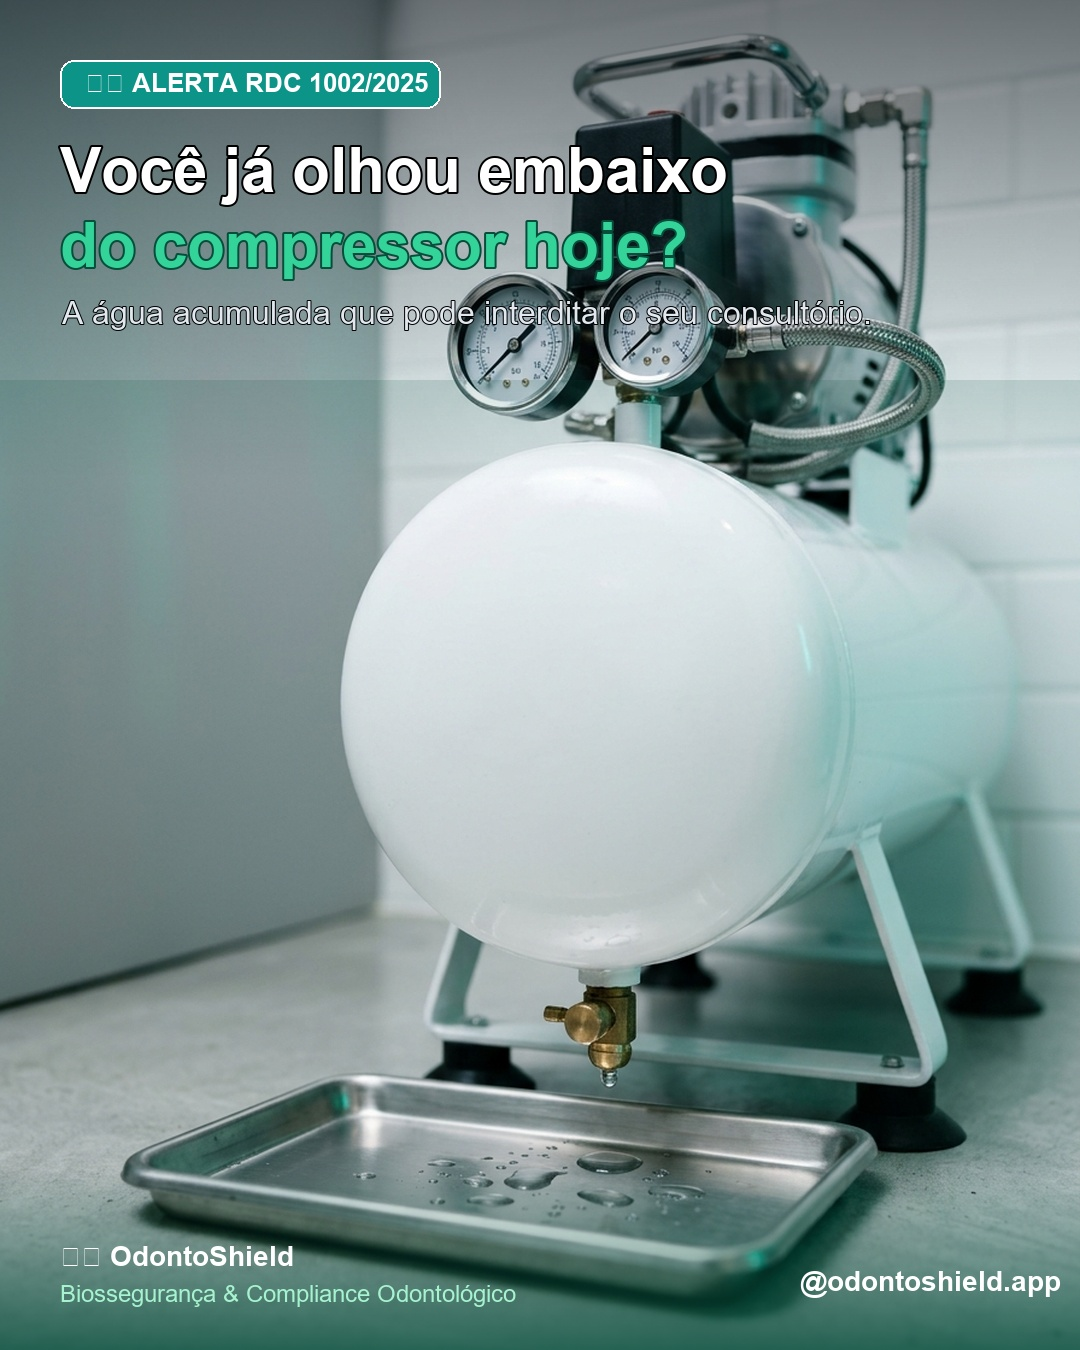
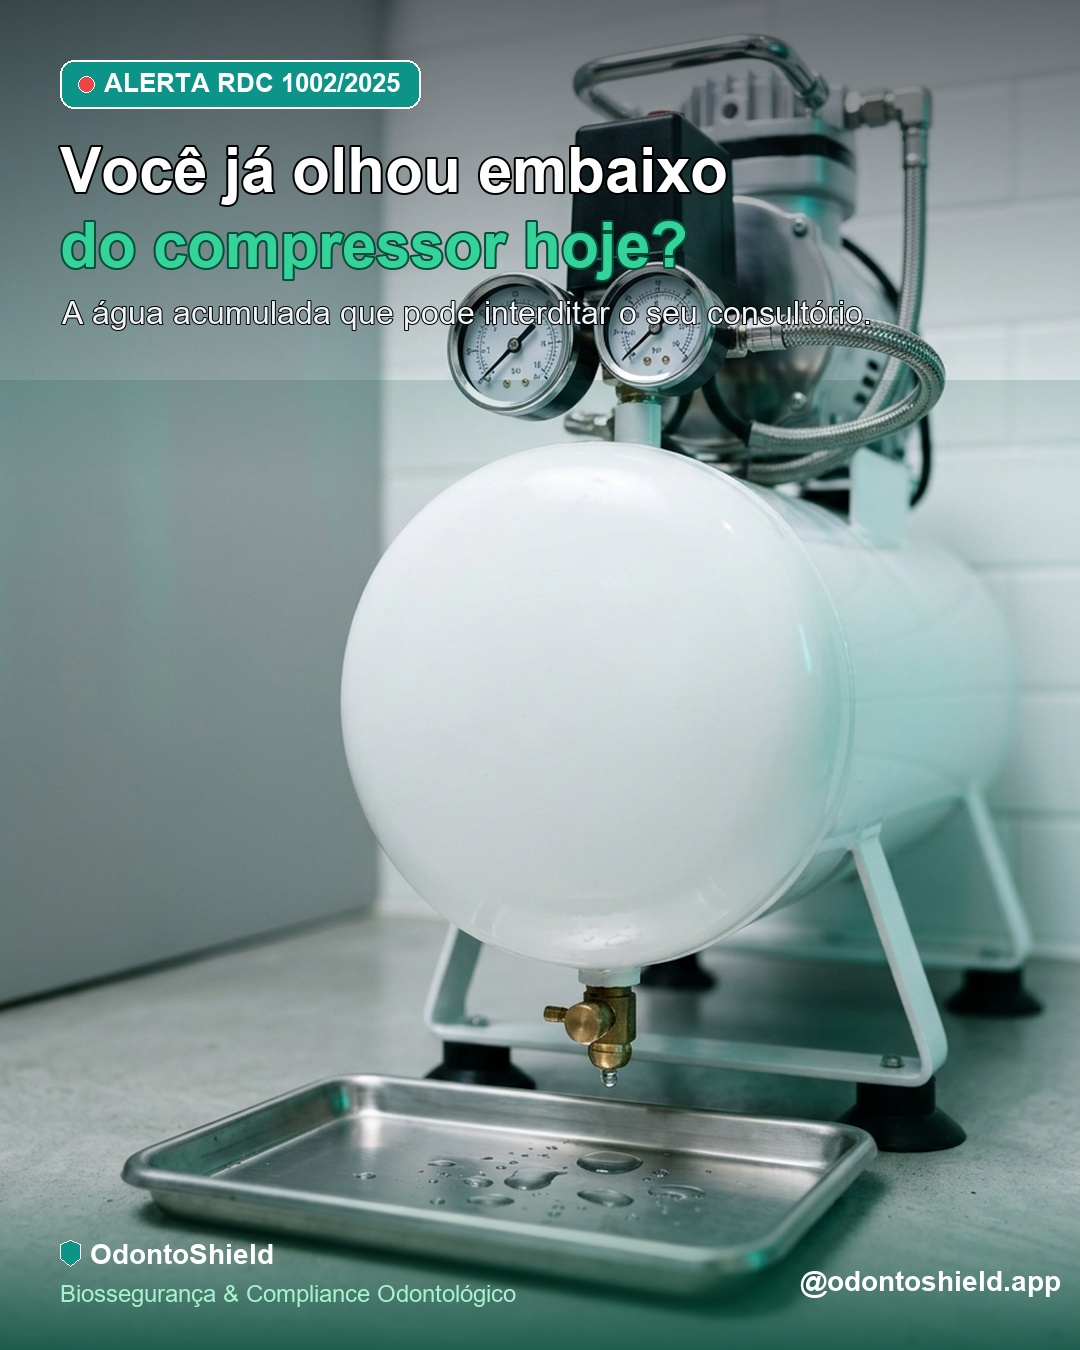
fix: remover glifo de emoji e aprimorar nitidez da capa do post 1

Changed region(s): [[0.0611, 0.0311, 0.3361, 0.0933], [0.0611, 0.9022, 0.275, 0.9644], [0.3667, 0.0311, 0.4278, 0.0933]]

diff --git a/scripts/generate_cover_post1.py b/scripts/generate_cover_post1.py
@@ -20,12 +20,10 @@ def create_cover():
     current_ratio = w / h
     
     if current_ratio > target_ratio:
-        # Image is wider: crop sides
         new_w = int(h * target_ratio)
         left = (w - new_w) // 2
         img = img.crop((left, 0, left + new_w, h))
     else:
-        # Image is taller: crop top/bottom
         new_h = int(w / target_ratio)
         top = (h - new_h) // 2
         img = img.crop((0, top, w, top + new_h))
@@ -38,25 +36,25 @@ def create_cover():
     
     # Top dark gradient for headline
     for y in range(480):
-        alpha = int(220 * (1 - (y / 480) ** 0.8))
+        alpha = int(225 * (1 - (y / 480) ** 0.85))
         draw_overlay.line([(0, y), (target_w, y)], fill=(6, 78, 59, alpha)) # Deep emerald dark tint
         
     # Extra dark shadow behind main text
     for y in range(380):
-        alpha = int(140 * (1 - (y / 380)))
+        alpha = int(150 * (1 - (y / 380)))
         draw_overlay.line([(0, y), (target_w, y)], fill=(10, 15, 20, alpha))
         
     # Bottom dark gradient for branding
     for y in range(target_h - 180, target_h):
         progress = (y - (target_h - 180)) / 180
-        alpha = int(210 * progress)
+        alpha = int(220 * progress)
         draw_overlay.line([(0, y), (target_w, y)], fill=(6, 78, 59, alpha))
         
     # Composite overlay
     img = Image.alpha_composite(img, overlay)
     draw = ImageDraw.Draw(img)
     
-    # Load fonts (fallback to Arial / default)
+    # Load fonts
     try:
         font_badge = ImageFont.truetype("arialbd.ttf", 26)
         font_title = ImageFont.truetype("arialbd.ttf", 62)
@@ -70,13 +68,15 @@ def create_cover():
         font_brand = font_badge
         font_tag = font_badge
         
-    # 1. Badge Pill at Top
-    badge_text = " ⚠ ALERTA RDC 1002/2025 "
+    # 1. Badge Pill at Top (Clean text without emoji glyph boxes)
+    badge_text = "ALERTA RDC 1002/2025"
     badge_x, badge_y = 60, 60
     
-    # Draw badge background pill
-    draw.rounded_rectangle([badge_x, badge_y, badge_x + 380, badge_y + 48], radius=14, fill=(13, 148, 136, 240), outline=(255, 255, 255, 180), width=2)
-    draw.text((badge_x + 18, badge_y + 8), badge_text, font=font_badge, fill=(255, 255, 255, 255))
+    # Draw badge background pill with clean indicator circle
+    draw.rounded_rectangle([badge_x, badge_y, badge_x + 360, badge_y + 48], radius=14, fill=(13, 148, 136, 240), outline=(255, 255, 255, 180), width=2)
+    # Red/Amber warning dot
+    draw.ellipse([badge_x + 18, badge_y + 16, badge_x + 34, badge_y + 32], fill=(239, 68, 68, 255), outline=(255, 255, 255, 220), width=1)
+    draw.text((badge_x + 44, badge_y + 8), badge_text, font=font_badge, fill=(255, 255, 255, 255))
     
     # 2. Main Title (Big & Punchy)
     title_line1 = "Você já olhou embaixo"
@@ -84,19 +84,22 @@ def create_cover():
     draw.text((60, 135), title_line1, font=font_title, fill=(255, 255, 255, 255), stroke_width=2, stroke_fill=(0, 0, 0, 160))
     draw.text((60, 210), title_line2, font=font_title, fill=(52, 211, 153, 255), stroke_width=2, stroke_fill=(6, 78, 59, 200)) # Emerald highlight
     
-    # 3. Subtitle
+    # 3. Subtitle (Clean & crisp white)
     sub_text = "A água acumulada que pode interditar o seu consultório."
-    draw.text((62, 295), sub_text, font=font_sub, fill=(226, 232, 240, 240), stroke_width=1, stroke_fill=(0, 0, 0, 180))
+    draw.text((62, 295), sub_text, font=font_sub, fill=(241, 245, 249, 255), stroke_width=1, stroke_fill=(0, 0, 0, 200))
     
-    # 4. Bottom Footer Branding
-    draw.text((60, target_h - 110), "🛡 OdontoShield", font=font_brand, fill=(255, 255, 255, 255))
+    # 4. Bottom Footer Branding (Shield icon drawn cleanly + Brand text)
+    # Draw a clean mini vector shield icon
+    sx, sy = 60, target_h - 110
+    draw.polygon([(sx + 10, sy), (sx + 20, sy + 4), (sx + 20, sy + 18), (sx + 10, sy + 26), (sx, sy + 18), (sx, sy + 4)], fill=(13, 148, 136, 255), outline=(255, 255, 255, 255))
+    draw.text((sx + 30, sy - 2), "OdontoShield", font=font_brand, fill=(255, 255, 255, 255))
     draw.text((60, target_h - 70), "Biossegurança & Compliance Odontológico", font=font_tag, fill=(167, 243, 208, 230))
     draw.text((target_w - 280, target_h - 85), "@odontoshield.app", font=font_brand, fill=(255, 255, 255, 240))
     
     # Convert back to RGB and save
     final_img = img.convert("RGB")
     final_img.save(out_path, "JPEG", quality=95)
-    print(f"Cover generated successfully at {out_path}")
+    print(f"Cover refined successfully at {out_path}")
 
 if __name__ == "__main__":
     create_cover()
